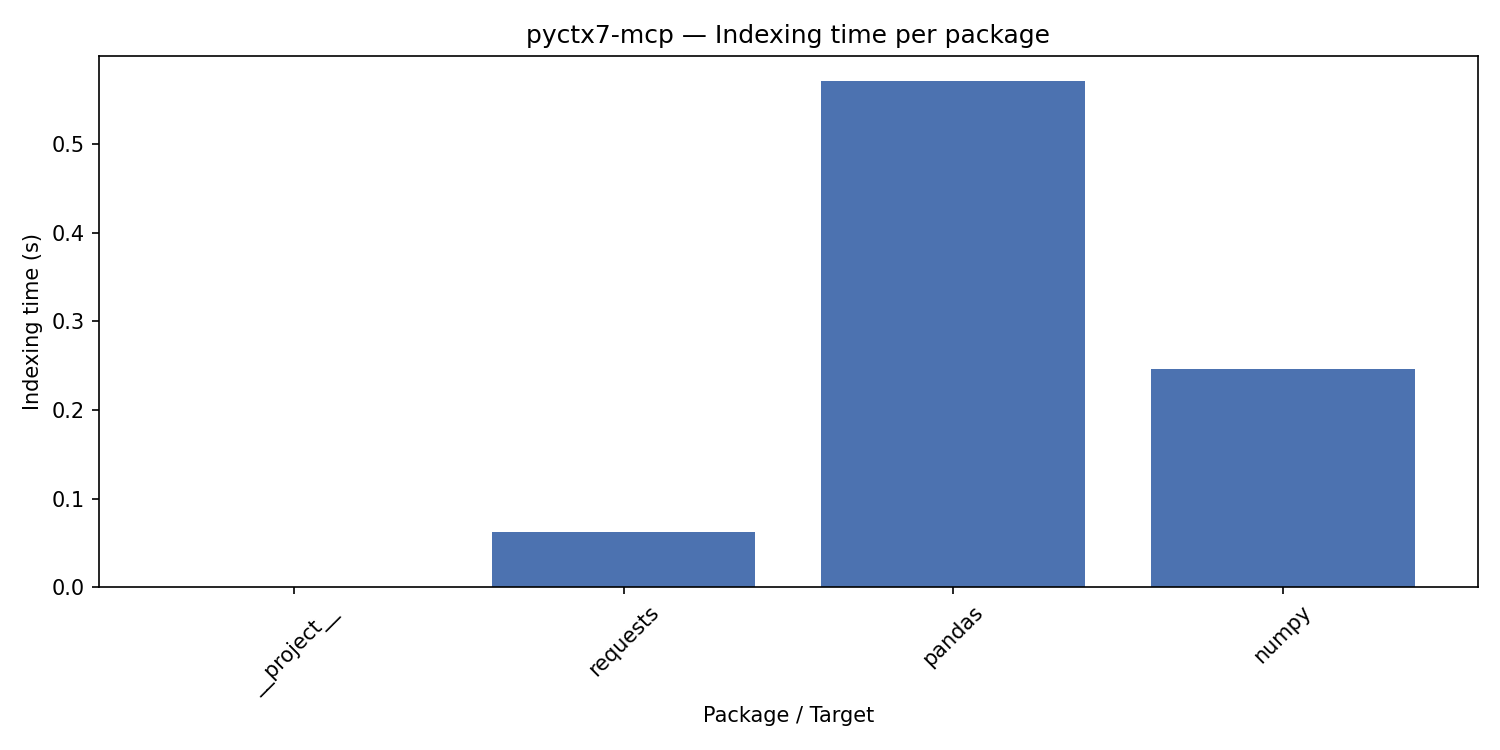
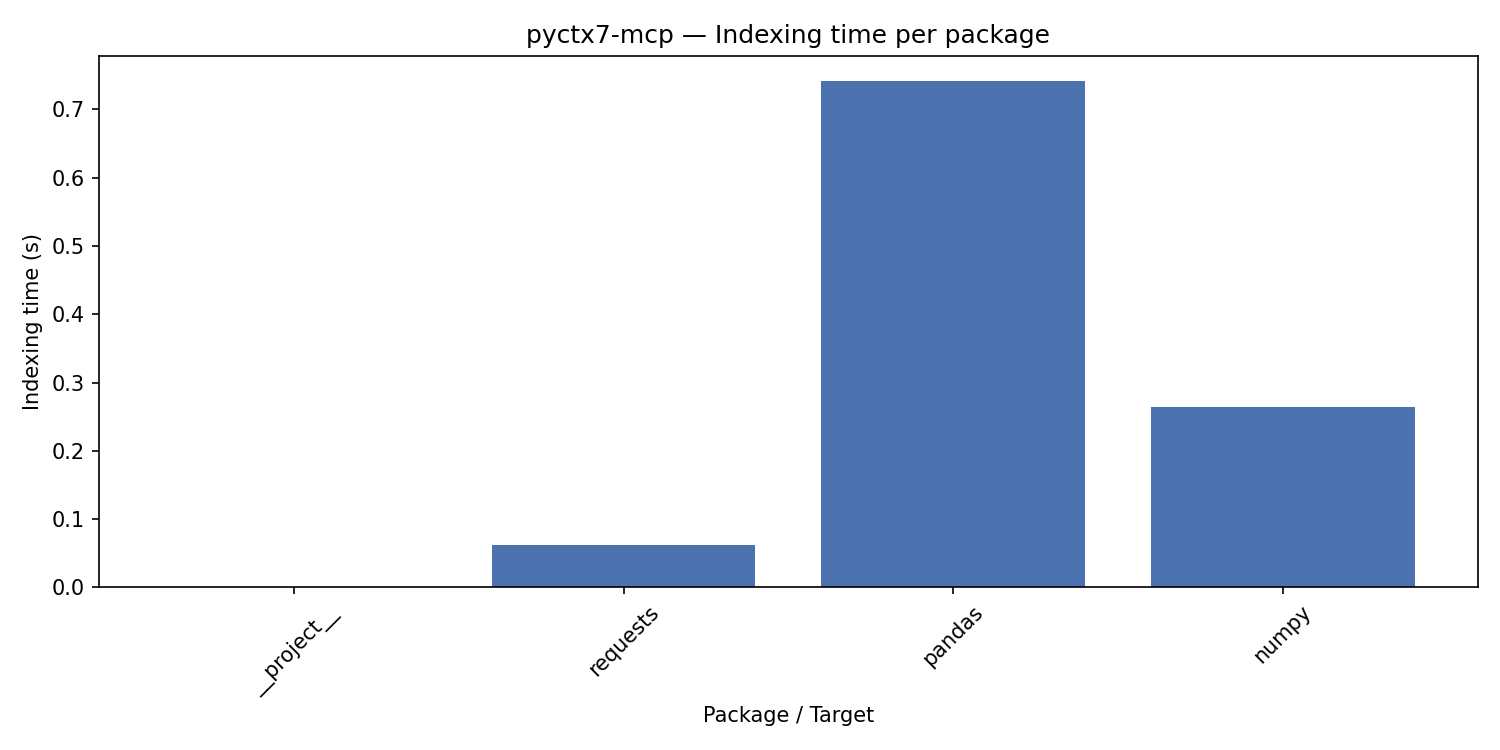
docs(benchmarks): update results after merging main (test suite + CI/CD)
Reran benchmarks after merging PR #5. Search behavior unchanged:
- pyctx7: ~3.4ms mean latency, 0% recall (FTS5 BM25 body-text ranking)
- Context7: ~1.3s mean latency, 55% recall (from prior run; API quota now exceeded)
- Indexing: pandas 0.74s, numpy 0.26s, requests 0.06s

diff --git a/benchmarks/README.md b/benchmarks/README.md
@@ -155,8 +155,8 @@ pyctx7-mcp indexes locally — Context7 has no indexing step (cloud API).
 |--------|----------|--------|---------|
 | `__project__` | 0.001 | 8 | 5 |
 | `requests` | 0.062 | 72 | 99 |
-| `pandas` | 0.570 | 3,787 | 8,777 |
-| `numpy` | 0.246 | 1,941 | 2,830 |
+| `pandas` | 0.741 | 3,787 | 8,777 |
+| `numpy` | 0.264 | 1,941 | 2,830 |
 
 ![Indexing time per package](docs/images/indexing_times.png)
 
@@ -164,10 +164,10 @@ pyctx7-mcp indexes locally — Context7 has no indexing step (cloud API).
 
 | Metric | pyctx7-mcp | Context7 | Speedup |
 |--------|-----------|----------|---------|
-| **Mean** | 3.20 ms | 1,321 ms | **~412x** |
-| **Median** | 3.37 ms | 1,910 ms | **~566x** |
+| **Mean** | 3.41 ms | 1,321 ms | **~387x** |
+| **Median** | 3.47 ms | 1,910 ms | **~550x** |
 
-pyctx7-mcp is **~400-500x faster** than Context7. pyctx7 queries a local SQLite FTS5 index (~3ms), while Context7 makes two sequential HTTP round-trips to a cloud API: `resolve-library-id` + `query-docs` (~1.3-1.9s total).
+pyctx7-mcp is **~400-550x faster** than Context7. pyctx7 queries a local SQLite FTS5 index (~3.4ms), while Context7 makes two sequential HTTP round-trips to a cloud API: `resolve-library-id` + `query-docs` (~1.3-1.9s total).
 
 ![Search latency boxplot](docs/images/search_latency_boxplot.png)
 
